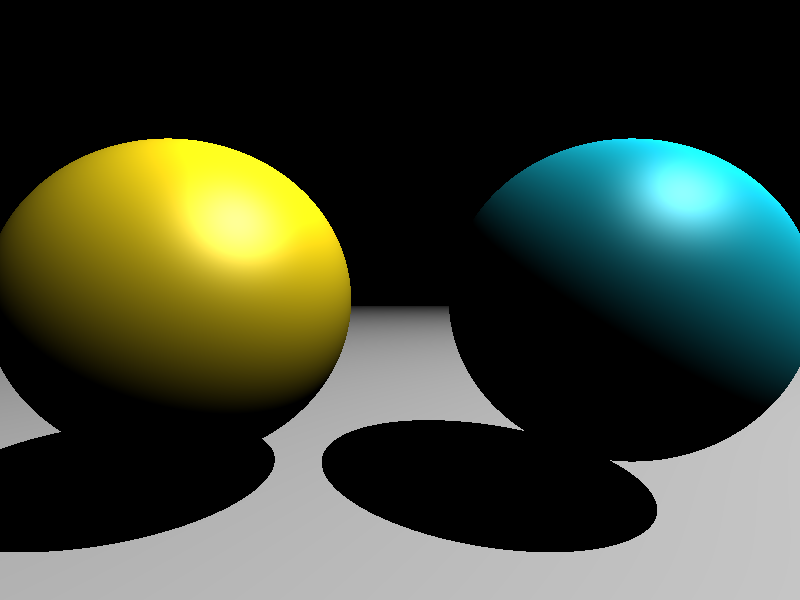
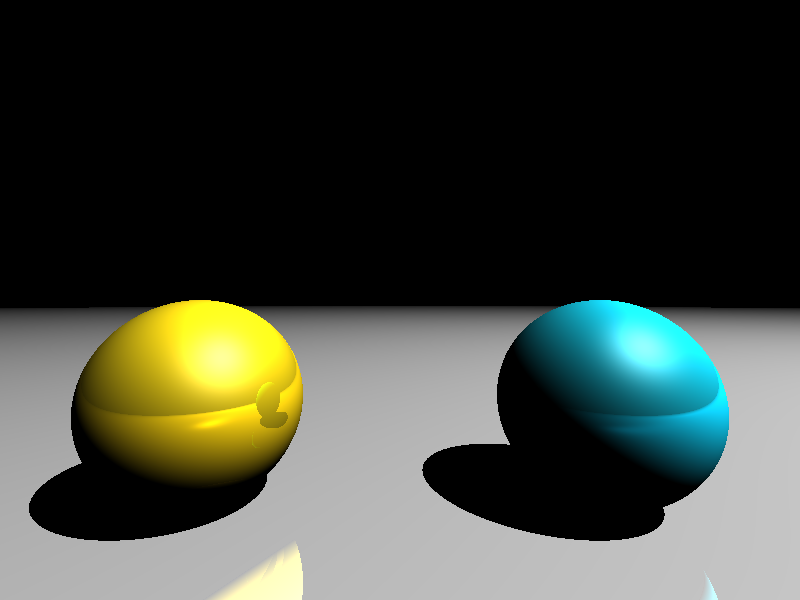
FINALLY FIXED REFLECTIONS
Reflections now comply with diffuse lighting instead of just doing there thing.
: )

diff --git a/raytracing.py b/raytracing.py
@@ -4,7 +4,7 @@ import matplotlib.pyplot as plt
 
 #Global variables.
 
-max_depth = 8
+max_depth = 4
 width = 800
 height = 600
 
@@ -52,12 +52,12 @@ screen = (-1,1/ratio,1,-1/ratio) #Sccreen perfectly fits the camera.
 #Declares Scene Objects.
 
 objects = [
-    { 'center': np.array([-1, 0, -1]), 'radius': 0.75, 'ambient': np.array([2, 2, 2]), 'diffuse': np.array([0.8, 0.7, 0.075]), 'specular': np.array([0.5, 0.5, 0.5]), 'shininess': 100, 'reflection': 0 },
-    { 'center': np.array([1, 0, -1]), 'radius': 0.75, 'ambient': np.array([2, 2, 2]), 'diffuse': np.array([0.075, 0.7, 0.8]), 'specular': np.array([0.5, 0.5, 0.5]), 'shininess': 100, 'reflection': 0 },
-    { 'center': np.array([0, -9000, 0]), 'radius': 8999, 'ambient': np.array([2, 2, 2]), 'diffuse': np.array([0.6, 0.6, 0.6]), 'specular': np.array([1, 1, 1]), 'shininess': 100, 'reflection': 0 }
+    { 'center': np.array([-1, -0.5, -1]), 'radius': .5, 'ambient': np.array([0, 0, 0]), 'diffuse': np.array([0.8, 0.7, 0.075]), 'specular': np.array([0.5, 0.5, 0.5]), 'shininess': 100, 'reflection': 0.75 },
+    { 'center': np.array([1, -0.5, -1]), 'radius': .5, 'ambient': np.array([0, 0, 0]), 'diffuse': np.array([0.075, 0.7, 0.8]), 'specular': np.array([0.5, 0.5, 0.5]), 'shininess': 100, 'reflection': 0.75 },
+    { 'center': np.array([0, -9000, 0]), 'radius': 8999, 'ambient': np.array([0, 0, 0]), 'diffuse': np.array([0.6, 0.6, 0.6]), 'specular': np.array([1, 1, 1]), 'shininess': 100, 'reflection': 5 }
 ]
 #Declaes the lights in the scene.
-light = { 'position': np.array([10,16,6]), 'ambient': np.array([0, 0, 0]), 'diffuse': np.array([2, 2, 2]), 'specular': np.array([1, 1, 1]) }
+light = { 'position': np.array([10,16,6]), 'ambient': np.array([0.1, 0.1, 0.1]), 'diffuse': np.array([2, 2, 2]), 'specular': np.array([1, 1, 1]) }
 
 #Main RayTracing loop.
 image = np.zeros((height,width,3))
@@ -80,15 +80,14 @@ for i,y in enumerate(np.linspace(screen[1], screen[3], height)):
             intersection_to_light_distance = np.linalg.norm(light['position'] - intersection)
             is_shadowed = min_distance < intersection_to_light_distance
             if is_shadowed:
-                break
+               break
             illumination = np.zeros((3))
-            illumination += nearest_object['ambient'] * light['ambient']
-            illumination += nearest_object['diffuse'] * light['diffuse'] * (1 - 0.63661977236759*np.arccos(np.dot(intersection_to_light, normal_to_surface)))
+            illumination += nearest_object['diffuse'] * light['diffuse'] * (1 - 0.63662*np.arccos(np.dot(intersection_to_light, normal_to_surface)))
             intersection_to_camera = normalise(camera - intersection)
             H = normalise(intersection_to_light + intersection_to_camera)
             illumination += nearest_object['specular'] * light['specular'] * np.dot(normal_to_surface, H) ** (nearest_object['shininess'] / 4)
             color += reflection * illumination
-            reflection *= nearest_object['reflection']
+            reflection *= nearest_object['reflection']*nearest_object['diffuse']*illumination
             origin = shifted_point
             direction = reflected(direction, normal_to_surface)
         image[i, j] = np.clip(color, 0, 1)     
